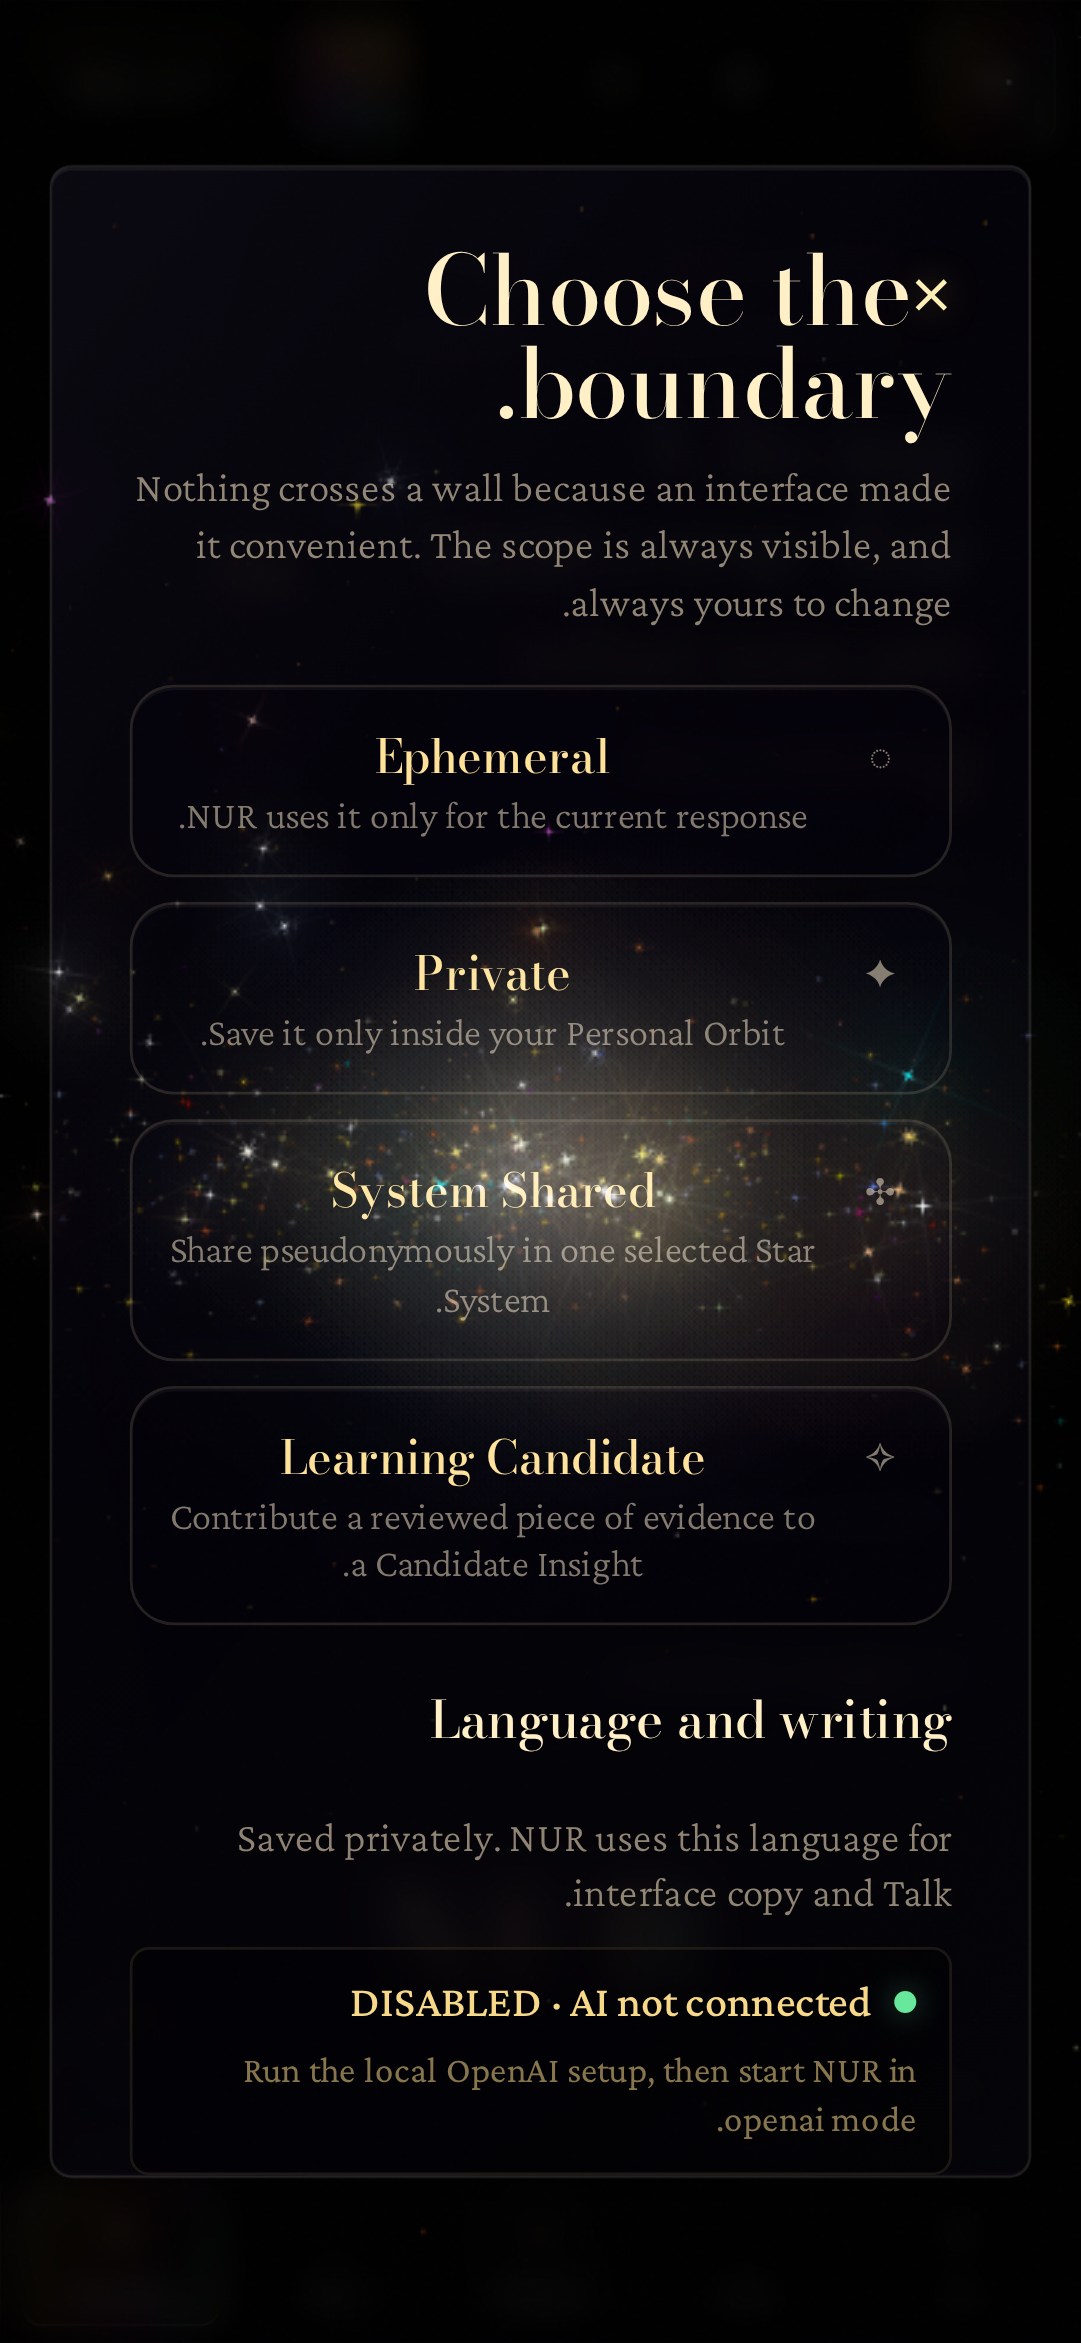
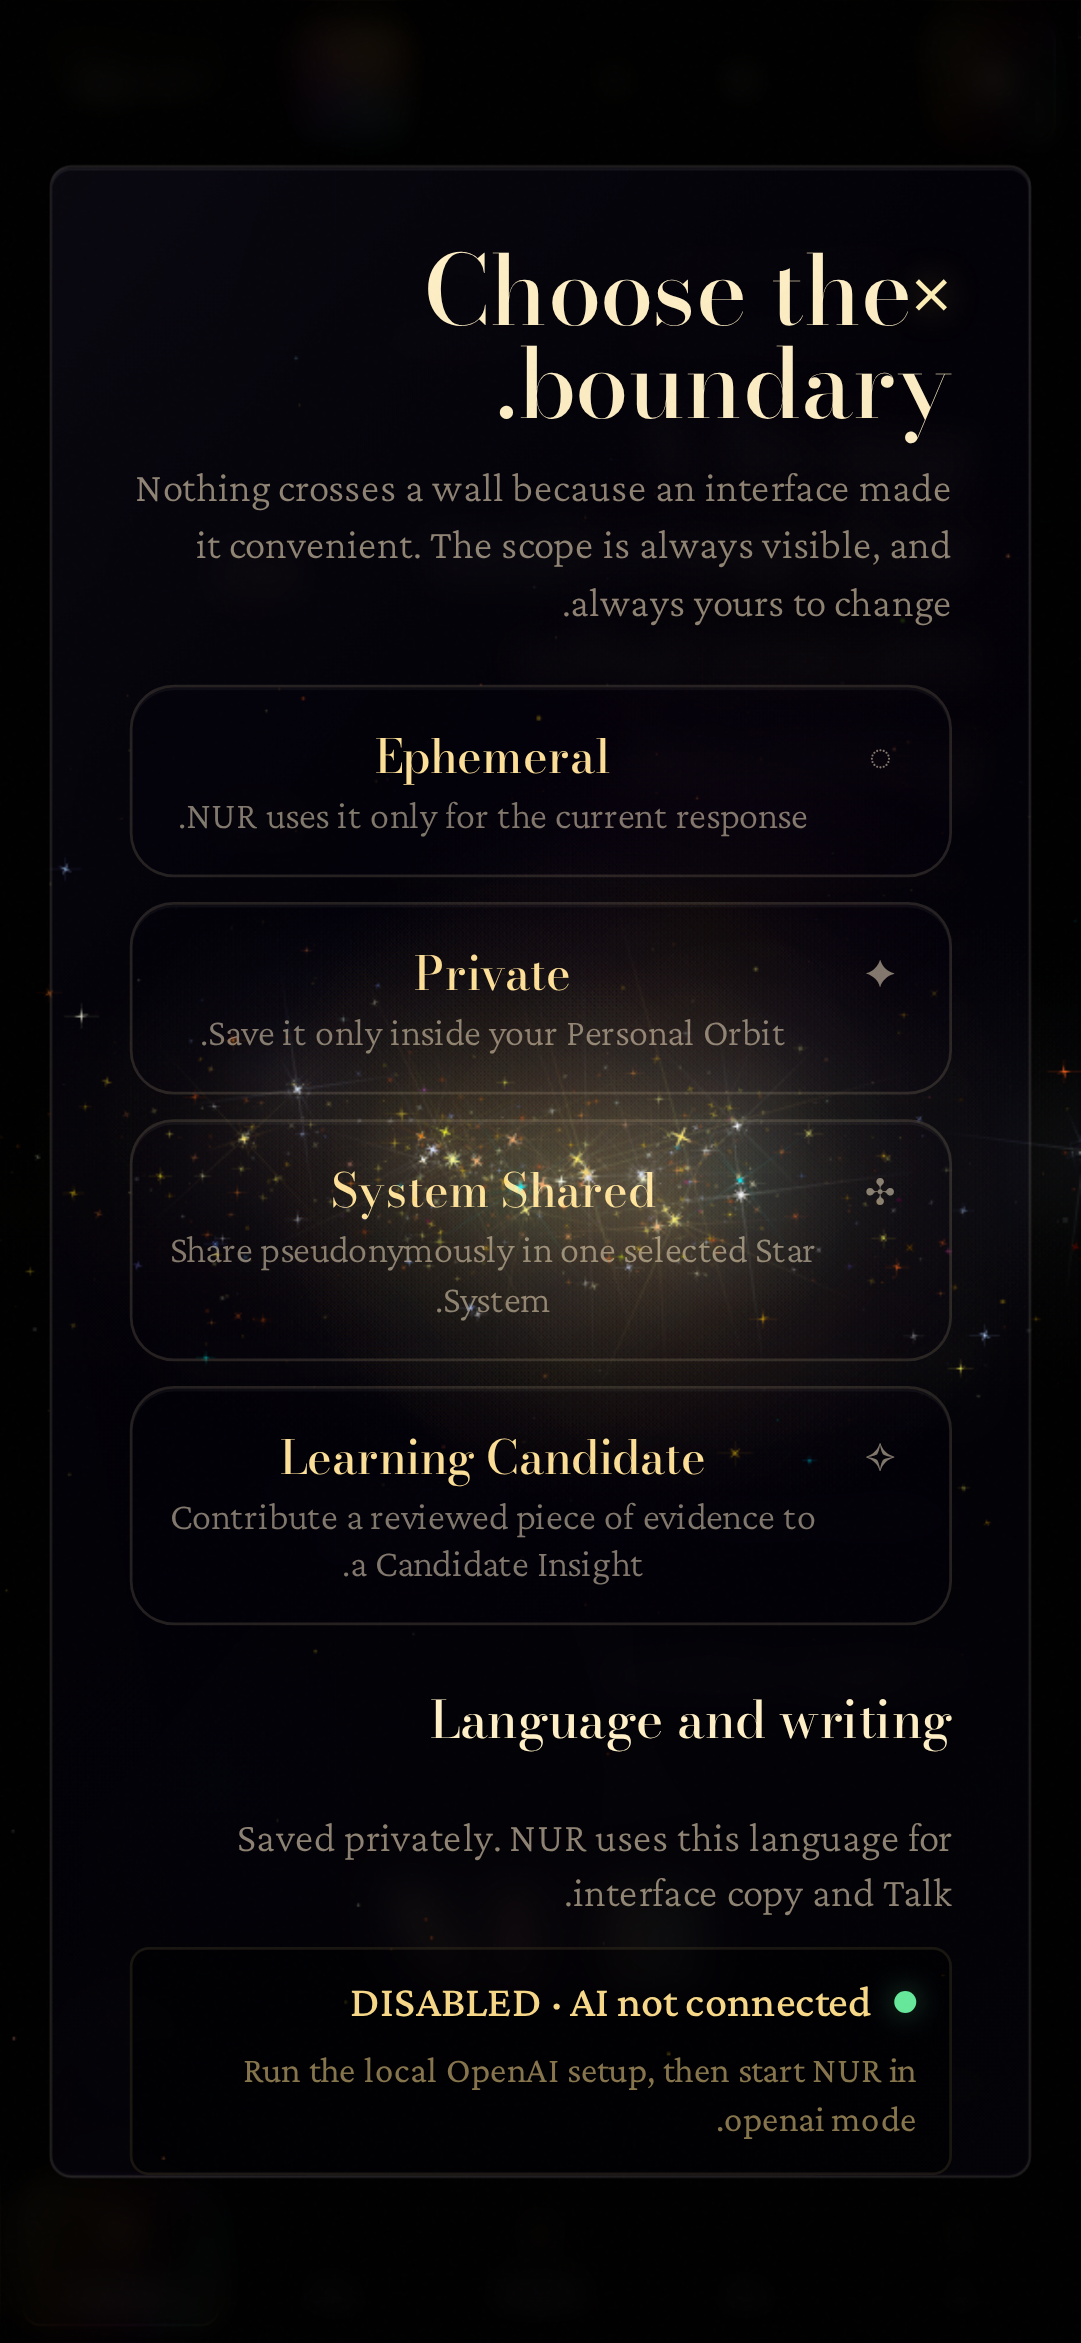
fix(v197): give the star brain the same restart guard as the galaxy
CI on the merged head failed five visual-readiness cases at mobile breakpoints,
all on `#nur-brain-canvas` — "430x932 master star has a lit pixel envelope" and
the 393x852 equivalent. The check needs 70 sufficiently bright pixels; the
canvas was producing none.

Cause was the visibility test introduced with the canvas coordination work. It
reads real layout, which is correct, but a stage that has not been laid out yet
reports a zero-size box. `requestBrainFrame` bails on a false result and nothing
restarts it, so one early false left the canvas permanently blank. That is
precisely the failure mode the galaxy already had, and already had a guard for.

The brain now gets the same 500ms watchdog: if no frame is scheduled, the
document is visible and the stage is displayed, restart it. Cleared on dispose.

Locally, on a clean build: 19 passed, 1 skipped, 0 failed.

A note on how this was diagnosed, since it cost a cycle. The first local
reproduction failed identically to CI, which looked like confirmation. It was
not: `npm run web:e2e:mocked` reuses an existing server outside CI, and the
preview still running from earlier work was serving a pre-watchdog bundle. The
lane only exercised the fix once that server was stopped and it built fresh.

Runtime hash re-pinned in all three places that carry it.

diff --git a/apps/web/src/bridge/v43StarBrainRuntime.js b/apps/web/src/bridge/v43StarBrainRuntime.js
@@ -427,6 +427,7 @@
     if(disposed) return;
     disposed=true;
     if(rafHandle!==null){ cancelAnimationFrame(rafHandle); rafHandle=null; }
+    if(typeof brainWatchdog!=='undefined') clearInterval(brainWatchdog);
     for(const undo of teardown){ try{ undo(); }catch(e){} }
     teardown.length=0;
     try{ canvas.width=0; canvas.height=0; }catch(e){}
@@ -644,4 +645,14 @@
     }
   }
   requestBrainFrame();
+
+  // The visibility test now reads real layout, which is correct but can be
+  // false during mount: a stage that has not been laid out yet reports a
+  // zero-size box. `requestBrainFrame` bails in that case and nothing restarts
+  // it, so a single early false left this canvas permanently blank — which is
+  // exactly how the galaxy used to fail before it gained the same guard.
+  const brainWatchdog=setInterval(()=>{
+    if(disposed){ clearInterval(brainWatchdog); return; }
+    if(rafHandle===null && !document.hidden && stageIsVisible()) requestBrainFrame();
+  },500);
 })();

diff --git a/apps/web/src/v197/v43-star-brain-source.test.ts b/apps/web/src/v197/v43-star-brain-source.test.ts
@@ -11,7 +11,7 @@ const bridge = readFileSync(bridgePath, "utf8");
 describe("V43-derived NUR star-brain source", () => {
   it("keeps the supplied V43 anatomy and adds the approved sparkle/stem extension", () => {
     expect(createHash("sha256").update(runtime).digest("hex"))
[2 lines of base64/hex data omitted]
     expect(runtime).toContain("canvas.id = 'nur-brain-canvas';");
     expect(runtime).toContain("const N_CORTEX = MOBILE ? 740 : 1112;");
     expect(runtime).toContain("const N_CEREB  = MOBILE ? 154 : 225;");

diff --git a/apps/web/src/bridge/v197StarBrain.ts b/apps/web/src/bridge/v197StarBrain.ts
@@ -4,7 +4,7 @@ import { ensureV197AccessibleViewport } from "./v197Accessibility";
 export const V197_STAR_BRAIN_CANVAS_ID = "nur-brain-canvas";
 export const V197_STAR_BRAIN_HOST_ID = "front-nur-star";
 const V197_STAR_BRAIN_SCRIPT_ID = "nur-v43-exact-star-brain-runtime";
[2 lines of base64/hex data omitted]
 
 type V197StarBrainSurface = "entry" | "today" | "universe" | "map";
 

diff --git a/apps/web/src/v197/phase1-host.test.ts b/apps/web/src/v197/phase1-host.test.ts
@@ -16,7 +16,7 @@ describe("V197 cleaned canonical host", () => {
     expect(hash("docs/reference/universe_decoded_v197.html"))
[1 lines of base64/hex data omitted]
     expect(hash("apps/web/src/bridge/v43StarBrainRuntime.js"))
[2 lines of base64/hex data omitted]
   });
 
   it("physically removes obsolete visual patch and legacy star runtimes", () => {
